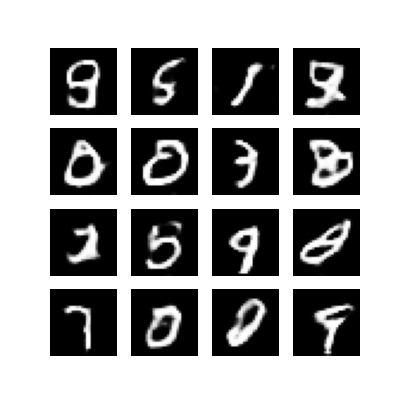
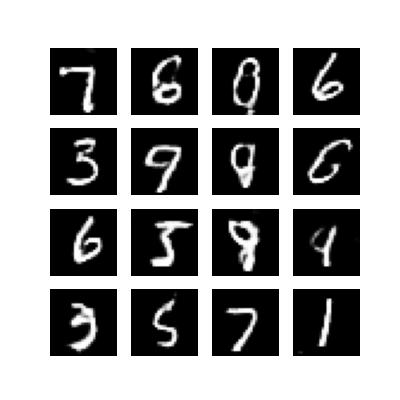
readme

diff --git a/testingTrain.py b/testingTrain.py
@@ -93,7 +93,7 @@ checkpoint = tf.train.Checkpoint(generator_optimizer=generator_optimizer,
                                  discriminator=discriminator)
 manager = tf.train.CheckpointManager(checkpoint, checkpoint_dir, max_to_keep=15)
 
-EPOCHS = 15
+EPOCHS = 120
 noise_dim = 100
 num_examples_to_generate = 16
 

diff --git a/README.md b/README.md
@@ -1,2 +1,4 @@
 # tensorflowGAN
 A tensorflow implementation of a GAN
+
+First testing a dummy implementation with mnist dataset
